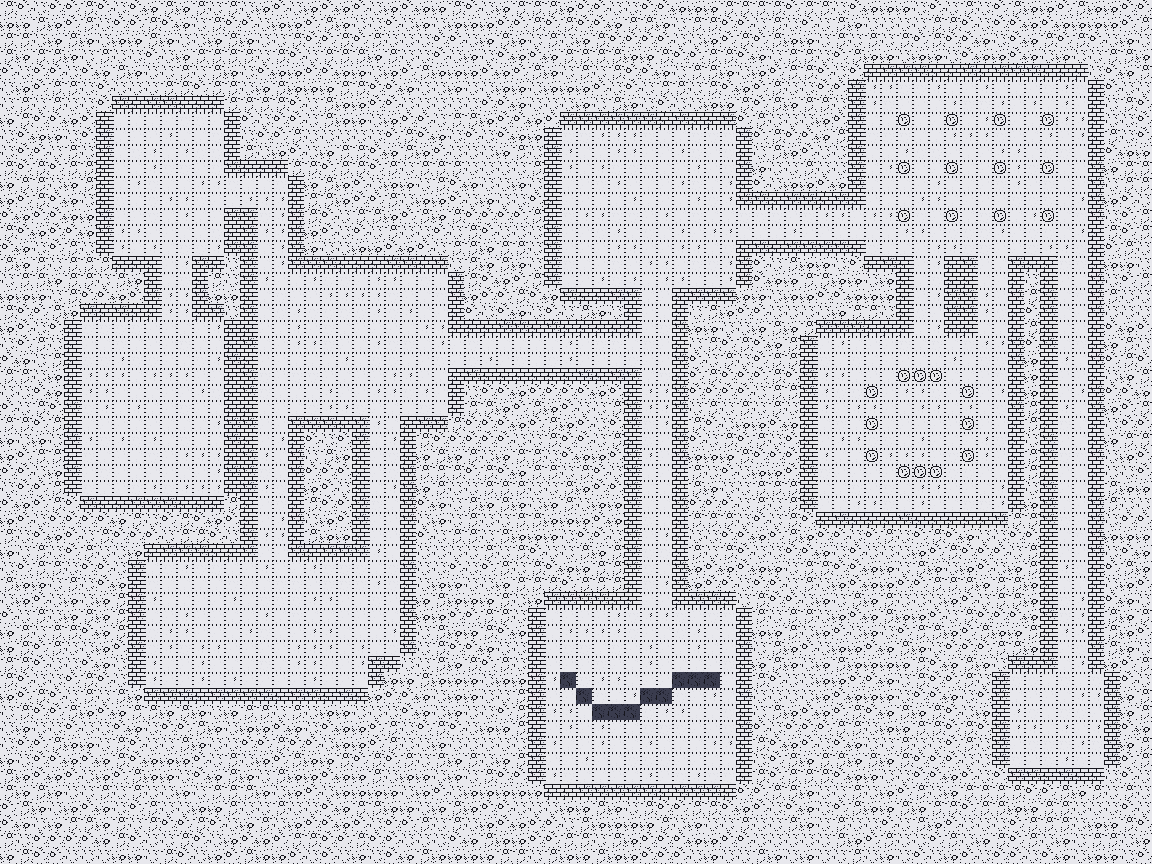
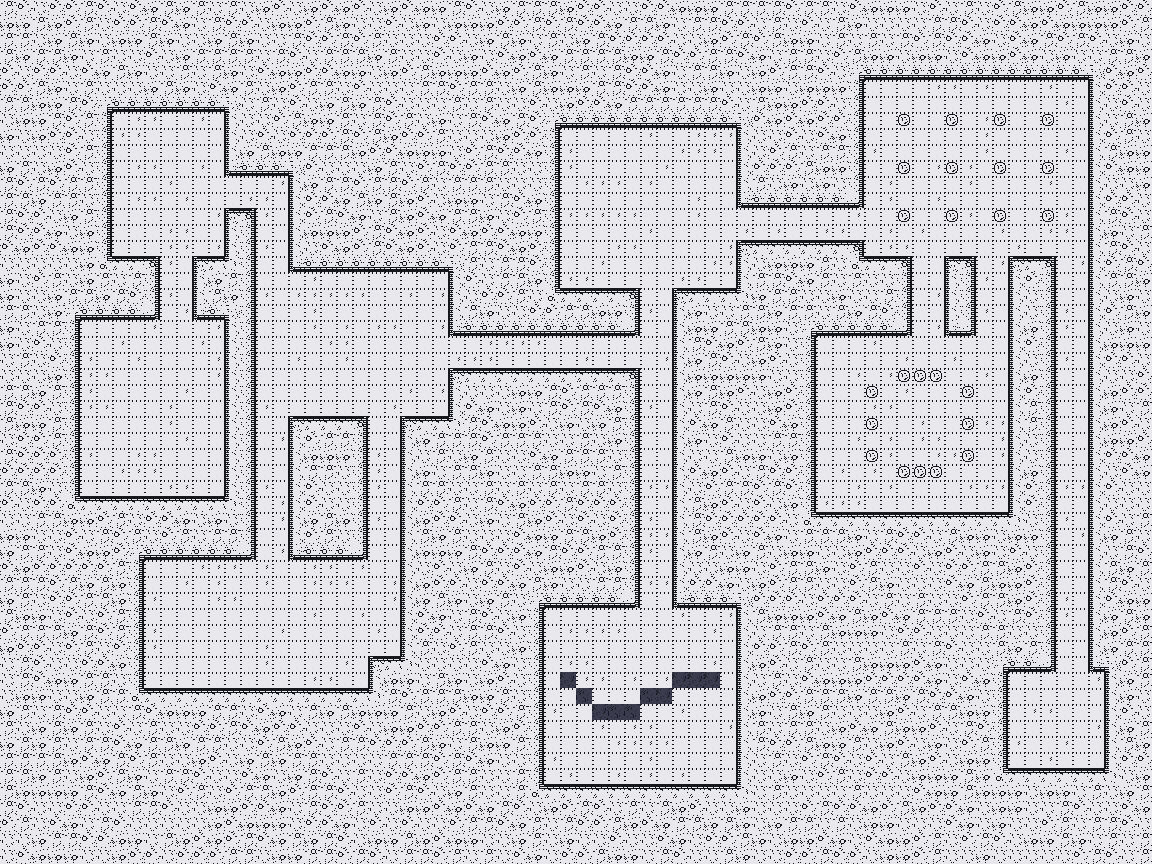
Ink wall tiles with a partial brick top, wall_side atlas, layout simplification in the re-skin

Changed region(s): [[0.0, 0.0625, 1.0, 1.0]]

diff --git a/levelArchitect_v2.py b/levelArchitect_v2.py
@@ -16821,6 +16821,21 @@ def _tilemap_tileset(spec, tile):
     return lut
 
 
+def _tilemap_side(spec, tile):
+    """(sheet pixels, x, y) of the tile a tileset names `wall_side` (the picture wall faces show instead of the map's own tile), or None."""
+    if not spec:
+        return None
+    path = bpy.path.abspath(spec["image"])
+    jp = bpy.path.abspath(spec.get("json") or os.path.splitext(path)[0] + ".json")
+    with open(jp) as f:
+        meta = json.load(f)
+    if "wall_side" not in meta:
+        return None
+    t, cols, margin, gutter = int(meta.get("tile", tile)), int(meta["cols"]), int(meta.get("margin", 0)), int(meta.get("gutter", 0))
+    i = int(meta["wall_side"])
+    return _plan_image_pixels(path=path), margin + (i % cols) * (t + gutter), margin + (i // cols) * (t + gutter)
+
+
 def tilemap_analyze(rgb, tile=16, green=0.375, rough=22.0, roles=None, lut=None):
     """Roles of the tiles of a map picture: an int array (rows top to bottom, tile columns), 0 floor, 1 canopy, 2 stone, 3 water, 4 prop (an object standing on the floor; see `_tilemap_props`).
     With a tileset (`lut`: tile pixels -> role) every tile that matches a tileset tile exactly takes that tile's role; the others (and every tile
@@ -16980,6 +16995,19 @@ def _build_tilemap(p):
     if ty * tx > 90000:
         raise PlanError("the map has %d tiles (at most 90000)" % (ty * tx))
     iw, ih = rgb.shape[1], rgb.shape[0]
+    side = _tilemap_side(p.get("tileset"), tile)
+    atlas = None
+    if side is not None:                                        # the map and the tileset sheet in one picture, so wall faces can show a tile that is not on the map
+        sheet_px, sx, sy = side
+        width = max(iw, sheet_px.shape[1])
+        atlas = np.zeros((ih + sheet_px.shape[0], width, 3))
+        atlas[:ih, :iw] = rgb[..., :3]
+        atlas[ih:, :sheet_px.shape[1]] = sheet_px[..., :3]
+        iw, ih_total = width, atlas.shape[0]
+        su0, su1 = sx / iw, (sx + tile) / iw
+        sv1, sv0 = 1.0 - (ih + sy) / ih_total, 1.0 - (ih + sy + tile) / ih_total
+        ih = ih_total
+        side_uv = [(su0, sv0), (su1, sv0), (su1, sv1), (su0, sv1)]
     tz = _tilemap_heights(roles, p)
     pad = np.pad(tz, 1, mode="edge")
     corner = (pad[:-1, :-1] + pad[:-1, 1:] + pad[1:, :-1] + pad[1:, 1:]) / 4.0          # (ty+1, tx+1) heights at tile corners
@@ -17035,7 +17063,7 @@ def _build_tilemap(p):
                         pts = [(x1, y1, za), (x0, y1, za), (x0, y1, zb), (x1, y1, zb)]
                     else:
                         pts = [(x0, y0, za), (x1, y0, za), (x1, y0, zb), (x0, y0, zb)]
-                    quad(pts, uv, False)
+                    quad(pts, side_uv if atlas is not None else uv, False)
                 if edge == "e":
                     pts = [(x1, y0, zb2), (x1, y1, zb2), (x1 - E, y1 - N, zt), (x1 - E, y0 + S, zt)]
                 elif edge == "w":
@@ -17044,7 +17072,7 @@ def _build_tilemap(p):
                     pts = [(x1, y1, zb2), (x0, y1, zb2), (x0 + W, y1 - N, zt), (x1 - E, y1 - N, zt)]
                 else:
                     pts = [(x0, y0, zb2), (x1, y0, zb2), (x1 - E, y0 + S, zt), (x0 + W, y0 + S, zt)]
-                quad(pts, uv, False)
+                quad(pts, side_uv if atlas is not None else uv, False)
             quad([(x0 + W, y0 + S, zt), (x1 - E, y0 + S, zt), (x1 - E, y1 - N, zt), (x0 + W, y1 - N, zt)], uv, False)
     floor = int((roles == 0).sum())
     trees = []
@@ -17059,12 +17087,13 @@ def _build_tilemap(p):
                 if 0 <= ci < tx and 0 <= cj < ty and roles[cj, ci] == 1 and depth[cj, ci] >= 1.5:
                     trees.append([fx * tm - ox, oy - fy * tm, float(tz[cj, ci])])
     layout = {"name": "tilemap", "tile_m": tm, "tiles": [tx, ty], "floor_share": floor / float(tx * ty), "size": [tx * tm, ty * tm],
-              "roles": roles.tolist(), "props": props, "trees": trees, "walk": tilemap_walk_check(roles)}
+              "roles": roles.tolist(), "props": props, "trees": trees, "walk": tilemap_walk_check(roles),
+              "uvdims": [iw, ih], "atlas": atlas}
     return (verts, faces, uvs, smooth), roles, layout
 
 
-def _tilemap_material(path):
-    name = "LA_Tilemap_" + os.path.basename(path)
+def _tilemap_material(path, image=None, name=None):
+    name = name or "LA_Tilemap_" + os.path.basename(path)
     mat = bpy.data.materials.get(name)
     if mat is not None:
         return mat
@@ -17073,7 +17102,7 @@ def _tilemap_material(path):
     nt = mat.node_tree
     bsdf = next(n for n in nt.nodes if n.type == 'BSDF_PRINCIPLED')
     tex = nt.nodes.new("ShaderNodeTexImage")
-    tex.image = bpy.data.images.load(path, check_existing=True)
+    tex.image = image or bpy.data.images.load(path, check_existing=True)
     tex.interpolation = 'Closest'
     tex.location = (-400, 0)
     nt.links.new(tex.outputs["Color"], bsdf.inputs["Base Color"])
@@ -17095,6 +17124,7 @@ def _tilemap_stone_material():
 
 
 def _plan_build_tilemap(context, node, world, seed, path):
+    import numpy as np
     where = "/".join(path)
     p = {**PLAN_TILEMAP_DEFAULTS, **(node.get("params") or {})}
     try:
@@ -17110,16 +17140,28 @@ def _plan_build_tilemap(context, node, world, seed, path):
     mesh.update()
     for poly, sm in zip(mesh.polygons, smooth):
         poly.use_smooth = sm
-    mesh.materials.append(_tilemap_material(bpy.path.abspath(p["image"])))
+    atlas = layout.pop("atlas", None)
+    if atlas is not None:                                          # the map + the tileset sheet as one picture (wall faces show a tile of the sheet)
+        h_, w_ = atlas.shape[:2]
+        img = bpy.data.images.new("LA_TilemapAtlas_" + node["id"], w_, h_)
+        px = np.ones((h_, w_, 4), dtype=np.float32)
+        px[..., :3] = np.clip(atlas[::-1] / 255.0, 0.0, 1.0)
+        _set_prop(img.colorspace_settings, 'name', 'sRGB')
+        img.pixels.foreach_set(px.ravel())
+        img.update()
+        img.pack()
+        mat = _tilemap_material("", img, "LA_TilemapAtlas_" + node["id"])
+    else:
+        mat = _tilemap_material(bpy.path.abspath(p["image"]))
+    mesh.materials.append(mat)
     obj = bpy.data.objects.new(mesh.name, mesh)
     context.scene.collection.objects.link(obj)
     obj["gla_walk_layout"] = json.dumps({k: v for k, v in layout.items() if k not in ("roles", "trees", "props")})
     obj["gla_tilemap"] = json.dumps({"id": node["id"], "tile_m": layout["tile_m"], "tiles": layout["tiles"], "rows": ["".join(str(v) for v in row) for row in layout["roles"]],
                                      "props": layout["props"], "trees": [[round(v, 3) for v in t_] for t_ in layout["trees"]], "walk": layout["walk"]})
     made = [obj]
-    mat = _tilemap_material(bpy.path.abspath(p["image"]))
     tm, (tx, ty) = layout["tile_m"], layout["tiles"]
-    iw, ih = _tilemap_image_size(p)
+    iw, ih = layout["uvdims"]
     ox, oy = tx * tm / 2.0, ty * tm / 2.0
     for k, pr in enumerate(layout["props"]):                      # every prop is its own object (a short box carrying its sprite), ready to be swapped for a model
         x0, y0, x1, y1 = pr["rect"]

diff --git a/tools/make_ink_tileset.py b/tools/make_ink_tileset.py
@@ -85,6 +85,39 @@ def wall_tile(seed, rim=None):
     return img
 
 
+def wall_rim_tile(mask, diag=None, seed=0):
+    """A wall seen from above, like the walls of a hand-inked plan: only a band of bricks along the sides that face the floor (mask bits N=1 E=2 S=4 W=8),
+    the rest is solid rock stipple. `diag` (0 NE, 1 SE, 2 SW, 3 NW) draws a small brick corner where only the diagonal neighbour is open."""
+    img = rock_tile(seed + 40)
+    B = 5                                                         # width of the brick band in px
+
+    def band(y0, y1, x0, x1, outer):
+        img[y0:y1, x0:x1] = PAPER
+        for by in range(y0, y1, 2):
+            img[by, x0:x1] = INK
+            off = 0 if ((by - y0) // 2) % 2 == 0 else 3
+            for bx in range(x0 + off, x1, 6):
+                img[by:by + 2, bx] = INK
+        o0, o1 = outer
+        img[o0[0]:o1[0], o0[1]:o1[1]] = INK                      # the thick outline on the floor side
+    if mask & 1:
+        band(0, B, 0, T, ((0, 0), (2, T)))
+    if mask & 4:
+        band(T - B, T, 0, T, ((T - 2, 0), (T, T)))
+    if mask & 8:
+        band(0, T, 0, B, ((0, 0), (T, 2)))
+    if mask & 2:
+        band(0, T, T - B, T, ((0, T - 2), (T, T)))
+    if diag is not None:
+        ys, xs = {0: (0, T - B), 1: (T - B, T - B), 2: (T - B, 0), 3: (0, 0)}[diag]
+        img[ys:ys + B, xs:xs + B] = PAPER
+        for by in range(ys, ys + B, 2):
+            img[by, xs:xs + B] = INK
+        img[ys:ys + B, xs] = INK
+        img[ys, xs:xs + B] = INK
+    return img
+
+
 def pillar_tile(seed):
     """A round pillar seen from above: a thick outlined circle with a stippled top, on paper."""
     img = floor_tile(seed)
@@ -116,7 +149,13 @@ for i in range(4):
 for i in range(4):
     TILES.append(("rock", rock_tile(i), "stone"))
 for i in range(2):
-    TILES.append(("wall", wall_tile(i), "stone"))
+    TILES.append(("wall", wall_tile(i), "stone"))                # a full brick tile: also the picture wall faces show (json wall_side)
+WALL_SIDE = len(TILES) - 1
+WALL_FIRST = len(TILES)                                        # 15 side-mask variants (mask 1..15) then 4 corner variants
+for _m in range(1, 16):
+    TILES.append(("wallrim", wall_rim_tile(_m, None, _m), "stone"))
+for _d in range(4):
+    TILES.append(("wallrim", wall_rim_tile(0, _d, 20 + _d), "stone"))
 TILES.append(("pillar", pillar_tile(1), "prop"))
 for i in range(2):
     TILES.append(("chasm", chasm_tile(i), "water"))
@@ -185,12 +224,36 @@ def make_dungeon(w=72, h=54, seed=4):
     return k
 
 
+def wall_tile_id(solid, y, x):
+    """Index of the wall tile for the solid tile (y, x): bricks only on the sides that face open ground, a corner variant when only a diagonal is open,
+    None for deep rock."""
+    h, w = solid.shape
+    op = lambda yy, xx: 0 <= yy < h and 0 <= xx < w and not solid[yy, xx]
+    mask = (1 if op(y - 1, x) else 0) | (2 if op(y, x + 1) else 0) | (4 if op(y + 1, x) else 0) | (8 if op(y, x - 1) else 0)
+    if mask:
+        return WALL_FIRST + mask - 1
+    for d, (dy, dx) in enumerate(((-1, 1), (1, 1), (1, -1), (-1, -1))):
+        if op(y + dy, x + dx):
+            return WALL_FIRST + 15 + d
+    return None
+
+
 def to_ids(kinds, seed=2):
+    """Tile ids for a kind grid: rock and wall tiles together are the solid ground; a solid tile with open ground beside it gets the brick-rimmed wall tile
+    that matches, other solid tiles stipple rock."""
     r = np.random.default_rng(seed)
+    solid = np.isin(kinds, ("rock", "wall"))
     out = np.zeros(kinds.shape, int)
     for y in range(kinds.shape[0]):
         for x in range(kinds.shape[1]):
-            ids = IDX[kinds[y, x]]
+            if solid[y, x]:
+                wid = wall_tile_id(solid, y, x)
+                if wid is not None:
+                    out[y, x] = wid
+                    continue
+                ids = IDX["rock"]
+            else:
+                ids = IDX[kinds[y, x]]
             out[y, x] = ids[int(r.integers(0, len(ids)))]
     return out
 
@@ -209,6 +272,7 @@ if __name__ == "__main__":
     d = os.path.join(ROOT, "docs", "examples")
     write_png(os.path.join(d, "ink_tileset.png"), sheet())
     with open(os.path.join(d, "ink_tileset.json"), "w") as f:
-        json.dump({"tile": T, "cols": COLS, "roles": [t[2] for t in TILES], "names": [t[0] for t in TILES]}, f, indent=1)
+        json.dump({"tile": T, "cols": COLS, "roles": [t[2] for t in TILES], "names": [t[0] for t in TILES], "wall_side": WALL_SIDE,
+                   "walltiles": {"first": WALL_FIRST, "note": "15 side-mask variants (N=1 E=2 S=4 W=8, mask 1..15) then 4 corner variants NE SE SW NW"}}, f, indent=1)
     write_png(os.path.join(d, "ink_map.png"), render_map(to_ids(make_dungeon(seed=seed))))
     print("wrote ink_tileset.png, ink_tileset.json and ink_map.png in", d)

diff --git a/tools/reskin_map.py b/tools/reskin_map.py
@@ -70,6 +70,27 @@ def main():
         near[:-1, :] |= open_[1:, :]
         near[:, 1:] |= open_[:, :-1]
         near[:, :-1] |= open_[:, 1:]
+        # simplify: the old maps are full of 1-tile spurs and dead-end nubs; a solid tile with three open neighbours is removed, a floor tile with three solid
+        # neighbours (a dead-end tip of a 1-tile passage) is filled, twice
+        for _ in range(2):
+            sol = solid.copy()
+            cnt = np.zeros((ty, tx), int)
+            cnt[1:, :] += sol[:-1, :]
+            cnt[:-1, :] += sol[1:, :]
+            cnt[:, 1:] += sol[:, :-1]
+            cnt[:, :-1] += sol[:, 1:]
+            inner = np.zeros((ty, tx), bool)
+            inner[1:-1, 1:-1] = True
+            solid = np.where(inner & sol & (cnt <= 1), False, np.where(inner & ~sol & (roles != "water") & (cnt >= 3), True, sol))
+        kinds = np.full((ty, tx), "floor", dtype=object)
+        kinds[solid] = "rock"
+        kinds[roles == "water"] = "chasm"
+        near = np.zeros((ty, tx), bool)
+        open_ = ~solid
+        near[1:, :] |= open_[:-1, :]
+        near[:-1, :] |= open_[1:, :]
+        near[:, 1:] |= open_[:, :-1]
+        near[:, :-1] |= open_[:, 1:]
         kinds[solid & near] = "wall"
         # tidy up: small loose bits of the old map (statues, bushes, decorations) become pillars; tiny pockets of floor inside rock are filled
         def components(mask):
@@ -96,9 +117,23 @@ def main():
             if len(comp) <= 2 and all(0 < y < ty - 1 and 0 < x < tx - 1 for y, x in comp):
                 for y, x in comp:
                     kinds[y, x] = "wall"
+        first = nm.get("walltiles", {}).get("first")
+        solid_now = np.isin(kinds, ("rock", "wall"))
         for y in range(ty):
             for x in range(tx):
-                c = [i for i, n in enumerate(names) if n == kinds[y, x]]
+                if first is not None and solid_now[y, x]:                    # brick rim only on the sides that face open ground (see make_ink_tileset.wall_tile_id)
+                    op = lambda yy, xx: 0 <= yy < ty and 0 <= xx < tx and not solid_now[yy, xx]
+                    mask = (1 if op(y - 1, x) else 0) | (2 if op(y, x + 1) else 0) | (4 if op(y + 1, x) else 0) | (8 if op(y, x - 1) else 0)
+                    if mask:
+                        ids[y, x] = first + mask - 1
+                        continue
+                    diag = next((d for d, (dy, dx) in enumerate(((-1, 1), (1, 1), (1, -1), (-1, -1))) if op(y + dy, x + dx)), None)
+                    if diag is not None:
+                        ids[y, x] = first + 15 + diag
+                        continue
+                    c = [i for i, n in enumerate(names) if n == "rock"]
+                else:
+                    c = [i for i, n in enumerate(names) if n == kinds[y, x]]
                 ids[y, x] = c[int(rng.integers(0, len(c)))]
     elif auto:
         names = nm["names"]

diff --git a/tests/blender_headless_test.py b/tests/blender_headless_test.py
@@ -5770,6 +5770,19 @@ with open(os.path.join(bpy.app.tempdir, "gla_ikt_test.json"), "w") as _f:
 addon.plan_build(bpy.context, addon.plan_from_tilemap_picture(_ik_path, "tm_pillar", 16, 1.0, tileset={"image": _ikt_path, "json": os.path.join(bpy.app.tempdir, "gla_ikt_test.json")}))
 _pil = [o for o in bpy.data.objects if o.type == "MESH" and o.get("gla_prop") and json.loads(o["gla_prop"])["kind"] == "pillar" and o.get("gla_tilemap_id") == "tm_pillar"]
 check("Tile map: a pillar tile builds a cylinder with two materials (stone shaft, picture cap)", len(_pil) == 1 and len(_pil[0].data.materials) == 2 and len(_pil[0].data.polygons) == 15, str([len(o.data.polygons) for o in _pil]))
+# a tileset with `wall_side`: the map and the sheet become one atlas picture and wall faces show the named tile
+with open(os.path.join(bpy.app.tempdir, "gla_ikt_test.json"), "w") as _f:
+    json.dump({"tile": 16, "cols": 2, "roles": ["floor", "stone"], "wall_side": 1}, _f)
+_wmap = _np2.zeros((64, 64, 3)); _wmap[:] = (200, 200, 205); _wmap[16:48, 16:48] = (30, 30, 40)
+_wm_im = bpy.data.images.new("gla_wm_test.png", 64, 64); _wm_px = _np2.ones((64, 64, 4)); _wm_px[..., :3] = _wmap[::-1] / 255.0
+_wm_im.pixels.foreach_set(_wm_px.ravel().astype(_np2.float32)); _wm_path = os.path.join(bpy.app.tempdir, "gla_wm_test.png")
+_wm_im.filepath_raw = _wm_path; _wm_im.file_format = 'PNG'; _wm_im.save()
+addon.plan_build(bpy.context, addon.plan_from_tilemap_picture(_wm_path, "tm_side", 16, 1.0, tileset={"image": _ikt_path, "json": os.path.join(bpy.app.tempdir, "gla_ikt_test.json")}))
+_sd = [o for o in bpy.data.objects if o.type == "MESH" and o.data.name.startswith("Tilemap_tm_side")]
+_img = _sd[0].data.materials[0].node_tree.nodes["Image Texture"].image if _sd else None
+check("Tile map: wall_side builds an atlas picture (map + tileset sheet) as the texture", len(_sd) == 1 and _img is not None and _img.name.startswith("LA_TilemapAtlas_") and _img.size[1] == 64 + 16 and _img.size[0] == 64, str(_img.size[:] if _img else None))
+_uvs = [c for d_ in _sd[0].data.uv_layers[0].data for c in d_.uv]
+check("Tile map: with an atlas the UVs stay inside 0..1", all(-1e-4 <= c <= 1 + 1e-4 for c in _uvs))
 # the game package of a tile-map level: floor tiles as exact walk rectangles, entrance and exit on the floor, props and trees listed
 _pk_root = addon.plan_from_tilemap_picture(_tm_path, "tm_pkg", 16, 1.0)
 addon.plan_build(bpy.context, _pk_root)

diff --git a/CHANGELOG.md b/CHANGELOG.md
@@ -5,7 +5,7 @@ reproduced exactly from its settings (see **Debug: Last Generation Params** in t
 
 ## Unreleased — terrain: look, relief, water and ground cover; tile maps
 
-- **Level from a tile map** (`tilemap` building, **Level from Tile Map...** button): a picture of a whole level made of square tiles (as in 16-bit action games) becomes a 3D level. Every tile gets a role from its colour and texture — floor, canopy (green mass) or stone (grey, rough) — `tilemap_analyze`, numpy only; single tiles can be overridden with `roles: {"x,y": 0|1|2}`. Floor stays flat, canopy and stone are raised (`canopy`, `stone` heights), walls are built where heights differ, and the picture itself is the texture with nearest filtering, so the pixel look is kept. `tile` (px) and `tile_m` (metres per tile) set the scale. **Tilesets and a modern look**: a `tileset` (sheet + roles JSON) matches map tiles exactly and adds a fourth role, **water**; the ground is one smooth surface (canopy swells into rounded mounds, banks slope into water), stone tiles are walls in tile-high bands with a bevelled top (`smooth: false` for plain blocks). `tools/make_tileset.py` draws an original 16-px tileset and a demo map. **Objects, trees, walk check**: a small clump of stone tiles standing alone on the floor (≤ `prop_max` tiles, ≤ 3 x 3) is a **prop** (role 4, `statue`), a small canopy clump is a `bush`; each prop is its own object (a short box carrying its sprite, `gla_prop` = {kind, rect}) with a floor tile showing under it, ready to be swapped for a model. **Canopy becomes real 3D trees** (`trees`, `tree_spacing`): round and cone trees on a jittered lattice well inside the forest, the canopy ground only a low mound (`canopy` 0.7). `tilemap_walk_check(roles)` floods the floor (canopy, stone, water and props block) from a start tile or the biggest region and reports regions, the reached share and the pockets. Tileset sheets may have a border and lines between tiles (`margin`, `gutter`). **Re-skin into the ink style** (`tools/reskin_map.py` with `ink_tileset`): forest and stone become solid rock, rock beside open ground brick wall, water a chasm, small loose bits of the old map (statues, bushes) pillars and tiny floor pockets wall; several old sheets can be given comma separated. **Ink dungeon from scratch** (`tools/make_ink_tileset.py`): an original ink-on-paper tileset (paper floors with a dotted grid, outlined brick walls, stippled rock, pillars, chasm) and a generator that carves rooms and corridors from rock, fills a hall with pillars, rings another with pillars and cuts a chasm. Tiles a tileset marks `prop` become props: a single one is a **pillar** (a cylinder with a plain stone shaft and the tile's picture as its cap), several together an object. **Autotiles**: the demo tileset (`tools/make_tileset.py`) now carries 3 x 16 autotile variants (dirt over grass, water over sand, canopy over grass; the variant follows which of the four neighbours are the same kind, bits N=1 E=2 S=4 W=8) with rounded wobbly edges, foam and shadow rims, so coasts, forest edges and paths join up; `tileset_demo.json` lists them under `autotiles`. **Fix**: round tree crowns had zero-width pole quads that the glTF export dropped (hollow crowns in Godot); they now stop short of the poles and end in flat caps. **Re-skin** (`tools/reskin_map.py`): every tile of a map is looked up in its old tileset, takes its role and is replaced by a same-role tile of a new tileset, so one layout can wear any art; choose the new tiles per role (`floor=dirt,grass stone=brick`). **Godot demo** (`examples/godot_tilemap_demo`, `tools/export_demo_package.py`): a small Godot 4 project loads a tile-map package and lets you walk it with WASD; headless `--selftest` checks entrance, exit, props and trees against the walk rectangles. **Game package**: **Export Tile Map Package (glb + json)** writes the level (ground, props, trees) as glTF plus a `gla-export/1` JSON — the floor tiles merged into exact walkable rectangles, the entrance at the start of the biggest floor region, the exit at the tile farthest from it by walking, props (kind, position) and tree positions, and the walk check; `tilemap_game_package(data)` builds it from the `gla_tilemap` custom property the ground object carries. Limits: colour decides the roles without a tileset (green machinery reads as forest), no game export yet. The tool works with any tile map picture; none from a commercial game is shipped.
+- **Level from a tile map** (`tilemap` building, **Level from Tile Map...** button): a picture of a whole level made of square tiles (as in 16-bit action games) becomes a 3D level. Every tile gets a role from its colour and texture — floor, canopy (green mass) or stone (grey, rough) — `tilemap_analyze`, numpy only; single tiles can be overridden with `roles: {"x,y": 0|1|2}`. Floor stays flat, canopy and stone are raised (`canopy`, `stone` heights), walls are built where heights differ, and the picture itself is the texture with nearest filtering, so the pixel look is kept. `tile` (px) and `tile_m` (metres per tile) set the scale. **Tilesets and a modern look**: a `tileset` (sheet + roles JSON) matches map tiles exactly and adds a fourth role, **water**; the ground is one smooth surface (canopy swells into rounded mounds, banks slope into water), stone tiles are walls in tile-high bands with a bevelled top (`smooth: false` for plain blocks). `tools/make_tileset.py` draws an original 16-px tileset and a demo map. **Objects, trees, walk check**: a small clump of stone tiles standing alone on the floor (≤ `prop_max` tiles, ≤ 3 x 3) is a **prop** (role 4, `statue`), a small canopy clump is a `bush`; each prop is its own object (a short box carrying its sprite, `gla_prop` = {kind, rect}) with a floor tile showing under it, ready to be swapped for a model. **Canopy becomes real 3D trees** (`trees`, `tree_spacing`): round and cone trees on a jittered lattice well inside the forest, the canopy ground only a low mound (`canopy` 0.7). `tilemap_walk_check(roles)` floods the floor (canopy, stone, water and props block) from a start tile or the biggest region and reports regions, the reached share and the pockets. Tileset sheets may have a border and lines between tiles (`margin`, `gutter`). **Wall tiles with a partial brick top** (ink tileset): 15 side-mask variants (bricks only along the sides that face open ground, N=1 E=2 S=4 W=8) plus 4 corner variants, the rest stipple rock, like the walls of a hand-inked plan; a tileset can name a `wall_side` tile that the wall faces show instead of the map's own tile (the map and the sheet then become one atlas picture, `LA_TilemapAtlas_<id>`); `walltiles.first` in the json tells generators where the variants start. The re-skin simplifies the old layouts (1-tile spurs and dead-end nubs removed) before choosing tiles. **Re-skin into the ink style** (`tools/reskin_map.py` with `ink_tileset`): forest and stone become solid rock, rock beside open ground brick wall, water a chasm, small loose bits of the old map (statues, bushes) pillars and tiny floor pockets wall; several old sheets can be given comma separated. **Ink dungeon from scratch** (`tools/make_ink_tileset.py`): an original ink-on-paper tileset (paper floors with a dotted grid, outlined brick walls, stippled rock, pillars, chasm) and a generator that carves rooms and corridors from rock, fills a hall with pillars, rings another with pillars and cuts a chasm. Tiles a tileset marks `prop` become props: a single one is a **pillar** (a cylinder with a plain stone shaft and the tile's picture as its cap), several together an object. **Autotiles**: the demo tileset (`tools/make_tileset.py`) now carries 3 x 16 autotile variants (dirt over grass, water over sand, canopy over grass; the variant follows which of the four neighbours are the same kind, bits N=1 E=2 S=4 W=8) with rounded wobbly edges, foam and shadow rims, so coasts, forest edges and paths join up; `tileset_demo.json` lists them under `autotiles`. **Fix**: round tree crowns had zero-width pole quads that the glTF export dropped (hollow crowns in Godot); they now stop short of the poles and end in flat caps. **Re-skin** (`tools/reskin_map.py`): every tile of a map is looked up in its old tileset, takes its role and is replaced by a same-role tile of a new tileset, so one layout can wear any art; choose the new tiles per role (`floor=dirt,grass stone=brick`). **Godot demo** (`examples/godot_tilemap_demo`, `tools/export_demo_package.py`): a small Godot 4 project loads a tile-map package and lets you walk it with WASD; headless `--selftest` checks entrance, exit, props and trees against the walk rectangles. **Game package**: **Export Tile Map Package (glb + json)** writes the level (ground, props, trees) as glTF plus a `gla-export/1` JSON — the floor tiles merged into exact walkable rectangles, the entrance at the start of the biggest floor region, the exit at the tile farthest from it by walking, props (kind, position) and tree positions, and the walk check; `tilemap_game_package(data)` builds it from the `gla_tilemap` custom property the ground object carries. Limits: colour decides the roles without a tileset (green machinery reads as forest), no game export yet. The tool works with any tile map picture; none from a commercial game is shipped.
 - **Rapids**: a river's bed steepness (0-9) rides in the whole part of the ribbon's u; the river shader turns steep stretches into white water across the whole width.
 - **Ground cover**: scatter kinds `grass` (tufts of blades, up to 900/ha) and `flower` (five colours) in meadow, forest, tundra, mountain and island biomes (capped at 6000 per kind); rules may carry `wet` (0-1) so trees prefer low, damp ground near water.
 - **Water**: lakes are a sheet only over the wet grid cells with a baked `depth` attribute, shaded from turquoise shallows to deep blue with growing opacity, shore foam and ripples (`LA_Lake`); rivers get edge foam and flow streaks from their ribbon UVs (`LA_River`). Shader only.

diff --git a/docs/USER_GUIDE.md b/docs/USER_GUIDE.md
@@ -311,7 +311,7 @@ In a plan, `params.roles` = `{"x,y": 0|1|2}` overrides single tiles, and `params
 **For a game**: **Export Tile Map Package (glb + json)** (Plans panel) exports the built level as glTF plus a JSON in the same `gla-export/1` format as the other packages: the floor tiles as exact walkable rectangles, an entrance, an exit (the floor tile farthest from the entrance by walking), the props and the tree positions.
 A fourth role, **water**, sits a little lower and the ground slopes into it; green masses swell into rounded mounds (`params.smooth: false` makes everything flat-topped blocks).
 With a **tileset** (`params.tileset` = `{"image": sheet.png, "json": roles.json}`; the JSON has `tile`, `cols` and a `roles` list, one of floor / canopy / stone / water / prop per tile in sheet order; optional `margin` and `gutter` in px for sheets with a border and lines between the tiles) every map tile that equals a tileset tile pixel for pixel takes that tile's role; others are read from colour and texture.
-`tools/make_tileset.py` draws an original example tileset and map. `tools/make_ink_tileset.py` draws an ink-on-paper dungeon tileset and generates a dungeon map (rooms, corridors, pillar halls, a chasm); a tile with the role `prop` in a tileset's JSON becomes a prop (a single tile a pillar). `tools/reskin_map.py` re-skins a map: it replaces every tile by a tile of the same role from another tileset, so the same layout can wear different art. The maps and tilesets of commercial games are not included; use pictures you are allowed to use.
+`tools/make_tileset.py` draws an original example tileset and map. A tileset JSON may name a **`wall_side`** tile: the wall faces then show that tile instead of the map's own one (the map and the sheet are put in one atlas picture), so a wall tile can have a bricks-only-on-the-edge top and still brick faces. `tools/make_ink_tileset.py` draws an ink-on-paper dungeon tileset and generates a dungeon map (rooms, corridors, pillar halls, a chasm); a tile with the role `prop` in a tileset's JSON becomes a prop (a single tile a pillar). `tools/reskin_map.py` re-skins a map: it replaces every tile by a tile of the same role from another tileset, so the same layout can wear different art. The maps and tilesets of commercial games are not included; use pictures you are allowed to use.
 
 ### Walled towns
 
